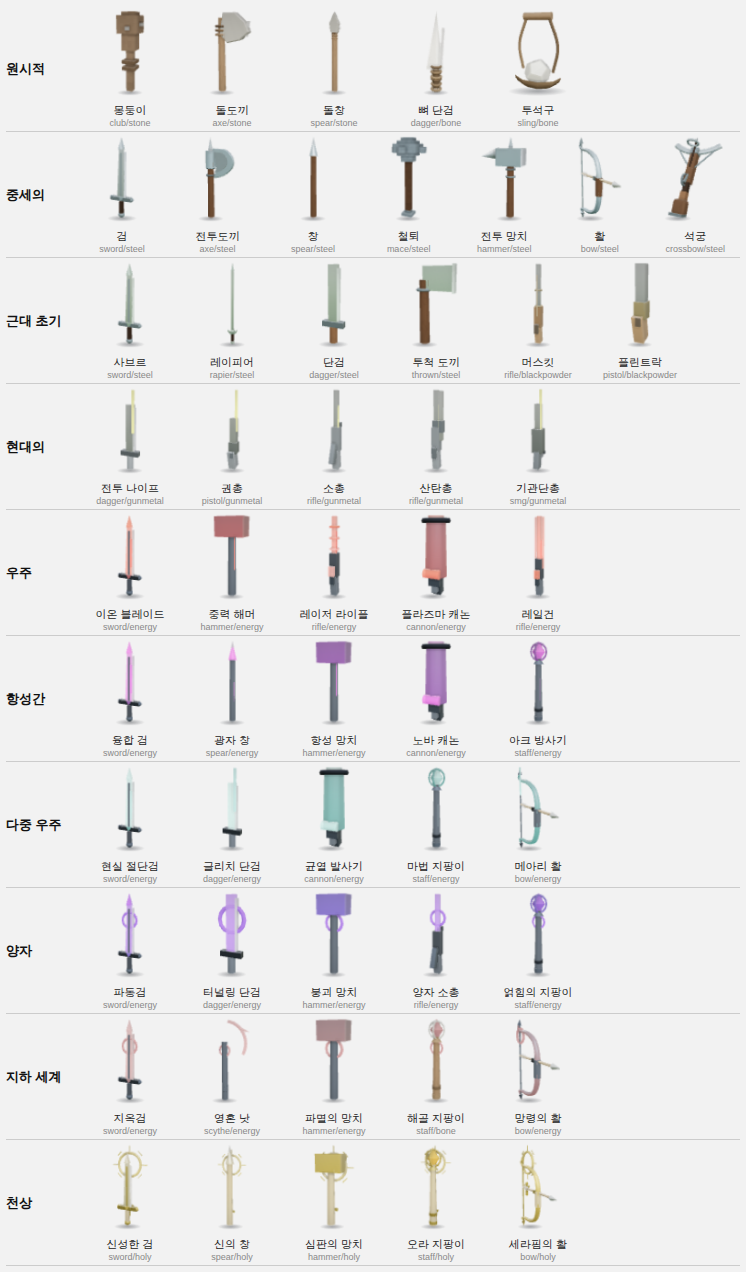
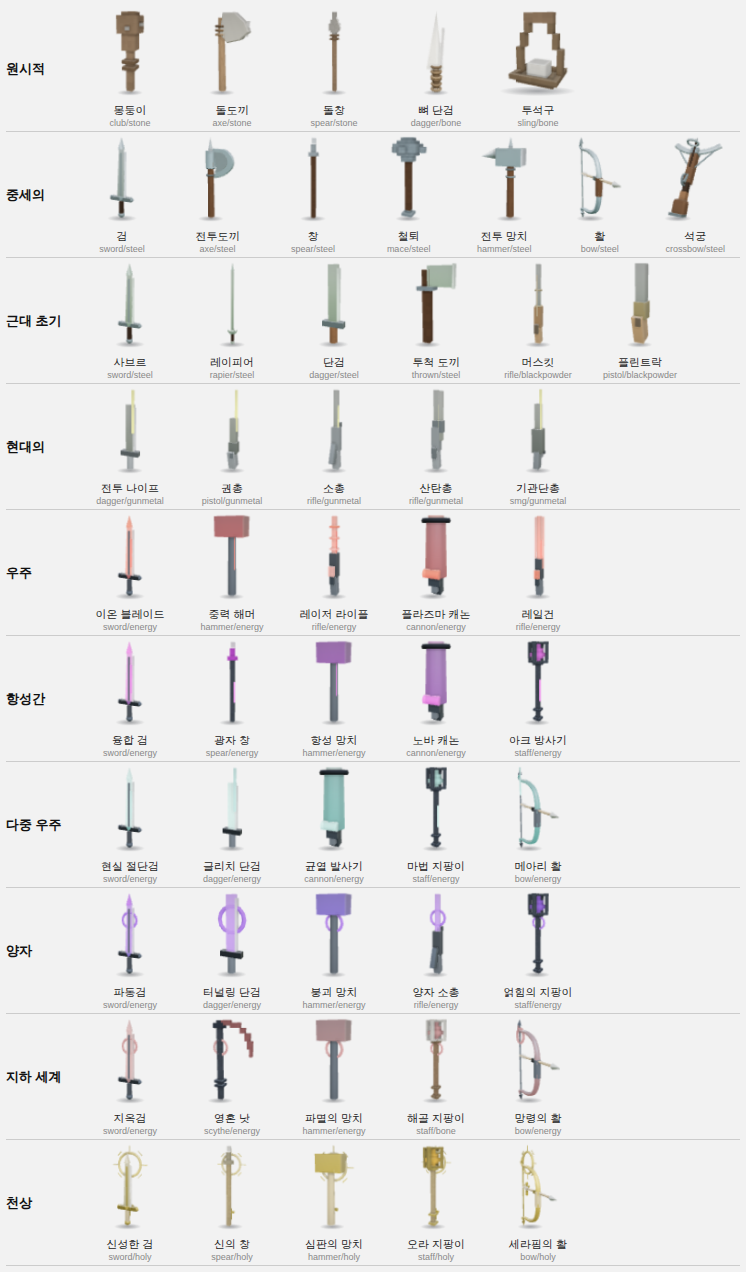
장병기·보조 5계열(창·지팡이·낫·투석구·투척도끼)을 큐브 적층으로 (equip-voxelize ⓑ 2차)
- spear: 2칸 자루 + 돌창 잎사귀 계단 촉(2→6→2) / 금속창 피라미드 촉(4→2) 분화 유지
- staff: 다면체 크리스탈 → 시대색 발광 계단 다이아, 토러스 십자 링 → 정사각 프레임 2벌,
  _staffOrb 회전 인터페이스 유지
- scythe: 곡선 토러스 날 → 계단 낙하 L자 블록 날(갈고리 실루엣 보존)
- sling: 반구 주머니 → 큐브 그릇(바닥판+테두리), 곡선 튜브 끈 → 배부른 계단 끈(오독
  대책이던 가로 토글·볼록 끈·끝점 접촉 전부 큐브 문법으로 계승)
- thrown: 자루 큐브 기둥 + 토러스 칼라 → 정사각 링
- 실측: 장비 평균 59.0→71.7% · 완전 축정렬 9→19종(spear/staff/sling/thrown/photonLance/
  arcThrower/entangleStaff/boneStaff/soulScythe 등 100%), divineLance 88.2(잔여는 천상
  공통 장식 — 다음 차수), 시대별 썸네일 시트 판독 확인, 문법 OK

Claude-Session: https://claude.ai/code/session_01M7zDA4A4b4kd3EGv2WcQqJ

diff --git a/web/js/scene3d.js b/web/js/scene3d.js
@@ -4475,25 +4475,33 @@ const Scene3D = {
                     }
                 }
                 break;
-            case 'spear':
-                cyl(0.03, 0.035, 1.05, wood, 0, 0.4);
+            case 'spear': {
+                // 🧊 창 — 큐브 적층 (equip-voxelize ⓑ 2차: 장병기). 2칸 자루 + 계단 촉.
+                //    돌창은 잎사귀꼴(배가 부푼 2→6→2 계단)로 '깬 돌', 금속창은 곧은 피라미드
+                //    (4→2 계단)로 갈린다 — 곡면 없이도 두 촉의 서명이 다르다.
+                const wc = HEXOF(wood), dc = HEXOF(dark);
+                const v = [];
+                vbox(v, -1, 0, -4, 29, -1, 0, wc);           // 자루 2×2
                 if (matKind === 'stone') {
-                    // 돌창(원시): **잎사귀꼴 뗀석기 촉** — 배가 부풀고 양끝이 모이는 형태라야 '깨서 만든 돌'로
-                    // 읽힌다. 원뿔은 밑동이 가장 넓어 금속 촉과 구분이 안 됐다(팔면체를 납작하게 눌러 쓴다).
-                    { const s = new THREE.Shape();
-                      s.moveTo(0, 0.2); s.lineTo(0.078, 0.03); s.lineTo(0.058, -0.105);
-                      s.lineTo(0, -0.155); s.lineTo(-0.058, -0.105); s.lineTo(-0.078, 0.03);
-                      s.lineTo(0, 0.2);
-                      const geo = new THREE.ExtrudeGeometry(s, { depth: 0.052, bevelEnabled: true, bevelThickness: 0.01, bevelSize: 0.01, bevelSegments: 1, curveSegments: 1 });
-                      geo.translate(0, 0, -0.026);
-                      const tip = new THREE.Mesh(geo, mat); tip.position.y = 1.05; g.add(tip); }
-                    edge(0.012, 0.2, 0.03, 0.06, 1.08, 0, 0.42);   // 갈아낸 한쪽 날
-                    lashing(0.88, 0.045);
+                    const sc = HEXOF(mat);
+                    // 잎사귀꼴 뗀석기 촉 — 낮은 배(y31~35 폭 6)에서 끝(폭 2)으로 모인다
+                    const LEAF = [[30, 2], [31, 4], [32, 6], [33, 6], [34, 6], [35, 6], [36, 4], [37, 4], [38, 2], [39, 2], [40, 2], [41, 2]];
+                    for (const [y, w] of LEAF) vbox(v, -w / 2, w / 2 - 1, y, y, -1, 0, sc);
+                    vring(v, 2, 27, 27, dc);                 // 결속 가죽끈 2줄
+                    vring(v, 2, 29, 29, dc);
+                    vpart(v, wood);
+                    edge(0.012, 0.2, 0.03, 0.06, 1.08, 0, 0.42);   // 갈아낸 한쪽 날(회전 박스 = 로컬 축정렬)
                 } else {
-                    { const tip = new THREE.Mesh(new THREE.ConeGeometry(0.07, 0.26, 8), bladeMat); tip.position.y = 1.03; g.add(tip); }
-                    { const tipHl = new THREE.Mesh(new THREE.ConeGeometry(0.024, 0.1, 6), edgeMat); tipHl.position.y = 1.14; g.add(tipHl); }
+                    vpart(v, wood);
+                    const t = [];
+                    const bc = HEXOF(bladeMat);
+                    vbox(t, -2, 1, 30, 31, -2, 1, bc);       // 촉 밑동 4×4
+                    vbox(t, -1, 0, 32, 35, -1, 0, bc);       // 촉 끝 2×2
+                    vpart(t, bladeMat);
+                    edge(0.05, 0.08, 0.05, 0, 1.115);        // 끝 하이라이트 큐브
                 }
                 break;
+            }
             case 'hammer':
                 cyl(0.04, 0.05, 0.72, wood, 0, 0.28);
                 box(0.3, 0.2, 0.2, mat, 0, 0.66);
@@ -4634,30 +4642,43 @@ const Scene3D = {
                 box(0.14, 0.1, 0.08, mat, 0, 0.16);
                 break;
             case 'staff': {
-                // 테이퍼 샤프트 + 그립 밴드 + 다면체 크리스탈 헤드 + 감싸는 링 ('막대사탕' 오독 제거, 비평가 지적)
-                cyl(0.026, 0.04, 0.95, wood, 0, 0.35);
-                cyl(0.042, 0.042, 0.05, dark, 0, 0.06);   // 그립 밴드 (손 위치 표시)
-                cyl(0.042, 0.042, 0.05, dark, 0, -0.08);
-                const crys = new THREE.Mesh(new THREE.OctahedronGeometry(0.1),
-                    new THREE.MeshLambertMaterial({ color: c, emissive: c, emissiveIntensity: 0.8 }));
-                crys.position.y = 0.92; crys.scale.y = 1.5;
-                g.add(crys); this._staffOrb = crys;
-                const holdRing = new THREE.Mesh(new THREE.TorusGeometry(0.12, 0.014, 6, 14), mat);
-                holdRing.position.y = 0.92;
-                const holdRing2 = holdRing.clone(); holdRing2.rotation.y = Math.PI / 2;
-                g.add(holdRing, holdRing2);
-                const collar = new THREE.Mesh(new THREE.ConeGeometry(0.05, 0.1, 8), dark); // 헤드 받침 소켓
-                collar.position.y = 0.8;
-                g.add(collar);
+                // 🧊 지팡이 — 큐브 적층 (equip-voxelize ⓑ 2차). 다면체 크리스탈 → 계단 다이아
+                //    (2→6→2), 감싸는 토러스 링 2개 → 십자 정사각 프레임 2벌. '막대사탕' 오독
+                //    방지책(그립 밴드·헤드 소켓)은 큐브 문법으로 그대로 잇는다.
+                const wc = HEXOF(wood), dc = HEXOF(dark);
+                const v = [];
+                vbox(v, -1, 0, -4, 25, -1, 0, wc);           // 자루 2×2
+                vring(v, 2, 2, 2, dc);                       // 그립 밴드(손 위치 표시) 2줄
+                vring(v, 2, -3, -3, dc);
+                vbox(v, -2, 1, 26, 26, -2, 1, dc);           // 헤드 받침 소켓(계단 콘)
+                vbox(v, -1, 0, 27, 27, -1, 0, dc);
+                vpart(v, wood);
+                // 크리스탈 헤드 — 시대색 발광 계단 다이아. update 의 _staffOrb 회전 인터페이스 유지.
+                const cry = [];
+                const DIA = [[28, 2], [29, 4], [30, 6], [31, 6], [32, 4], [33, 4], [34, 2], [35, 2]];
+                for (const [y, w] of DIA) vbox(cry, -w / 2, w / 2 - 1, y, y, -w / 2, w / 2 - 1, c);
+                const crys = vpart(cry, mat, { emissive: c, emissiveIntensity: 0.8, jitter: 0.03 });
+                this._staffOrb = crys;
+                // 감싸는 프레임 — xy·zy 두 평면의 정사각 테 (토러스 십자 링의 큐브 번역)
+                const fr = [];
+                const fc = HEXOF(mat);
+                for (let x = -5; x <= 4; x++) for (let y = 27; y <= 36; y++)
+                    if (x === -5 || x === 4 || y === 27 || y === 36) vbox(fr, x, x, y, y, -1, 0, fc);
+                for (let z = -5; z <= 4; z++) for (let y = 27; y <= 36; y++)
+                    if (z === -5 || z === 4 || y === 27 || y === 36) vbox(fr, -1, 0, y, y, z, z, fc);
+                vpart(fr, mat);
                 break;
             }
-            case 'thrown':
-                cyl(0.03, 0.035, 0.42, wood, 0, 0.14);
+            case 'thrown': {
+                // 🧊 투척 도끼 — 자루를 큐브 기둥으로, 토러스 칼라를 정사각 링으로 (equip-voxelize ⓑ 2차)
+                const v = [];
+                vbox(v, -1, 0, -5, 13, -1, 0, HEXOF(wood));
+                vring(v, 2, 9, 9, HEXOF(dark));
+                vpart(v, wood);
                 box(0.2, 0.15, 0.04, bladeMat, 0.1, 0.36);
                 edge(0.014, 0.17, 0.044, 0.197, 0.36);   // 던지는 날 끝
-                { const collar = new THREE.Mesh(new THREE.TorusGeometry(0.042, 0.01, 5, 10), dark);
-                  collar.rotation.x = Math.PI / 2; collar.position.y = 0.29; g.add(collar); }
                 break;
+            }
             case 'club': {
                 // 🧊 원시 몽둥이 — 큐브 적층 (equip-voxelize ⓑ 1차: 둔기). 가는 2칸 그립 →
                 //    4칸 미드 → 6칸 헤드로 굵어지는 계단 실루엣이 '타격부로 갈수록 굵어지는
@@ -4715,40 +4736,44 @@ const Scene3D = {
                 break;
             }
             case 'scythe': {
-                // 낫: 긴 자루 + 직각으로 뻗은 큰 곡선 날 (도끼의 덩어리 헤드와 정반대 실루엣)
-                cyl(0.028, 0.034, 1.0, wood, 0, 0.36);
-                { const blade = new THREE.Mesh(new THREE.TorusGeometry(0.34, 0.026, 5, 12, Math.PI * 0.62), bladeMat);
-                  blade.position.set(0.02, 0.84, 0); blade.rotation.z = -0.5; blade.scale.z = 0.32; g.add(blade); }
-                { const tip = new THREE.Mesh(new THREE.ConeGeometry(0.03, 0.16, 5), bladeMat);
-                  tip.position.set(0.35, 1.04, 0); tip.rotation.z = -1.9; tip.scale.z = 0.4; g.add(tip); }
-                cyl(0.045, 0.045, 0.07, dark, 0, 0.8);      // 날 소켓
-                lashing(0.06, 0.042);
+                // 🧊 낫 — 큐브 적층 (equip-voxelize ⓑ 2차). 곡선 토러스 날 → 계단으로 처지는
+                //    L자 블록 날. 자루 꼭대기에서 +x 로 뻗다가 끝으로 갈수록 아래로 꺾여 낫의
+                //    갈고리 실루엣이 남는다(도끼의 덩어리 헤드와 정반대 — 종전 의도 유지).
+                const wc = HEXOF(wood), dc = HEXOF(dark), bc = HEXOF(bladeMat);
+                const v = [];
+                vbox(v, -1, 0, -5, 28, -1, 0, wc);           // 긴 자루 2×2
+                vbox(v, -2, 1, 26, 27, -2, 1, dc);           // 날 소켓
+                vring(v, 2, 1, 1, dc);                       // 결속 끈 2줄
+                vring(v, 2, 3, 3, dc);
+                vpart(v, wood);
+                const b = [];
+                vbox(b, 1, 4, 27, 28, -1, 0, bc);            // 계단 낙하 날: 뿌리(수평)
+                vbox(b, 5, 8, 26, 27, -1, 0, bc);
+                vbox(b, 9, 10, 24, 25, -1, 0, bc);
+                vbox(b, 11, 12, 21, 23, -1, 0, bc);
+                vbox(b, 12, 13, 18, 20, -1, 0, bc);          // 끝으로 갈수록 급하게 꺾인다
+                vbox(b, 13, 13, 15, 17, -1, 0, bc);          // 갈고리 끝
+                vpart(b, bladeMat);
                 break;
             }
             case 'sling': {
-                // 투석구: 가죽 주머니 + 두 가닥 끈 + 장전된 돌 (총기류로 오독되면 안 되는 원시 원거리 무기)
-                // 주머니를 넓적하게·돌을 크게 잡아야 '두 갈래 포크'로 안 읽힌다(썸네일 실측).
-                { const pouch = new THREE.Mesh(new THREE.SphereGeometry(0.13, 10, 7, 0, Math.PI * 2, 0, Math.PI / 2), dark);
-                  pouch.rotation.x = Math.PI; pouch.scale.set(1.15, 0.62, 0.9); pouch.position.y = -0.3; g.add(pouch); }
-                { const stone = new THREE.Mesh(new THREE.DodecahedronGeometry(0.085, 0), mat);
-                  stone.rotation.set(0.4, 0.7, 0); stone.position.y = -0.285; g.add(stone); }
-                // ⚠ 끈 두 가닥은 **끝이 어딘가에 닿아야** 한다 — 끝이 뜨면 '나뭇가지 두 개 + 그릇'이
-                //    된다(실측). 그리고 1차 채점(A '국자'·B 'Y자 새총')의 원인은 **위 세로 손잡이 + 곧은
-                //    V자 끈**이었다 — 곧은 두 가닥이 Y 포크로, 세로 자루가 새총 그립으로 읽힌다.
-                //    → 손잡이를 **가로 토글**로 눕히고, 끈을 바깥으로 살짝 배부른 **곡선 튜브**로 바꿔
-                //    '늘어진 가죽끈'을 만든다(새총 프레임은 곧아야 하므로 곡선이 곧 슬링의 서명이다).
-                { const toggle = new THREE.Mesh(new THREE.CylinderGeometry(0.022, 0.022, 0.17, 7), wood);
-                  toggle.rotation.z = Math.PI / 2; toggle.position.y = 0.05; g.add(toggle); }
-                for (const s of [-1, 1]) {
-                    const pts = [
-                        new THREE.Vector3(s * 0.07, 0.045, 0),      // 토글 끝
-                        new THREE.Vector3(s * 0.125, -0.12, 0),     // 바깥으로 배부른 중간
-                        new THREE.Vector3(s * 0.10, -0.275, 0),     // 주머니 테
-                    ];
-                    const cord = new THREE.Mesh(new THREE.TubeGeometry(new THREE.CatmullRomCurve3(pts), 10, 0.009, 5), dark);
-                    g.add(cord);
+                // 🧊 투석구 — 큐브 적층 (equip-voxelize ⓑ 2차). 반구 주머니 → 큐브 그릇(바닥판
+                //    + 테두리 링), 곡선 튜브 끈 → 바깥으로 배부른 **계단 끈**(1칸 폭). 종전 오독
+                //    대책 유지: 가로 토글 + 배부른 끈 = 슬링의 서명, 끈 양끝은 토글·주머니에 닿는다.
+                const wc = HEXOF(wood), sc = HEXOF(mat), dc = HEXOF(dark);
+                const v = [];
+                vbox(v, -4, 3, -11, -11, -3, 2, dc);         // 주머니 바닥판
+                for (let x = -5; x <= 4; x++) for (let z = -4; z <= 3; z++)
+                    if (x === -5 || x === 4 || z === -4 || z === 3) v.push({ x, y: -10, z, c: dc });  // 주머니 테두리
+                vbox(v, -2, 1, -10, -8, -2, 1, sc);          // 장전된 돌(테 위로 솟는 블록)
+                vbox(v, -3, 2, 1, 2, -1, 0, wc);             // 가로 토글(손잡이)
+                for (const s of [-1, 1]) {                   // 배부른 계단 끈 — 바깥 볼록이 슬링의 서명
+                    const X = n => s > 0 ? n : -n - 1;       // 짝수 격자 대칭(중심 0 = 칸 -1|0 경계)
+                    vbox(v, X(2), X(2), -1, 0, -1, 0, dc);
+                    vbox(v, X(3), X(3), -4, -2, -1, 0, dc);
+                    vbox(v, X(4), X(4), -9, -5, -1, 0, dc);  // 끝은 주머니 테(x=±5칸 열) 위에 닿는다
                 }
-                // ⚠ 손목 고리(토러스)를 자루 위에 얹었다가 뺐다 — 자루와 떨어져 보여 **갈고리**로 읽혔다.
+                vpart(v, dark);
                 break;
             }
             case 'pistol': {
